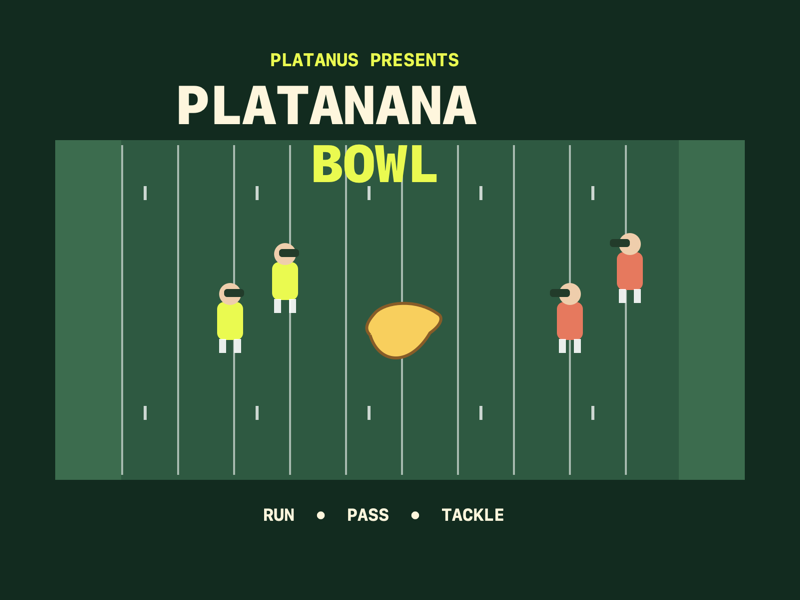
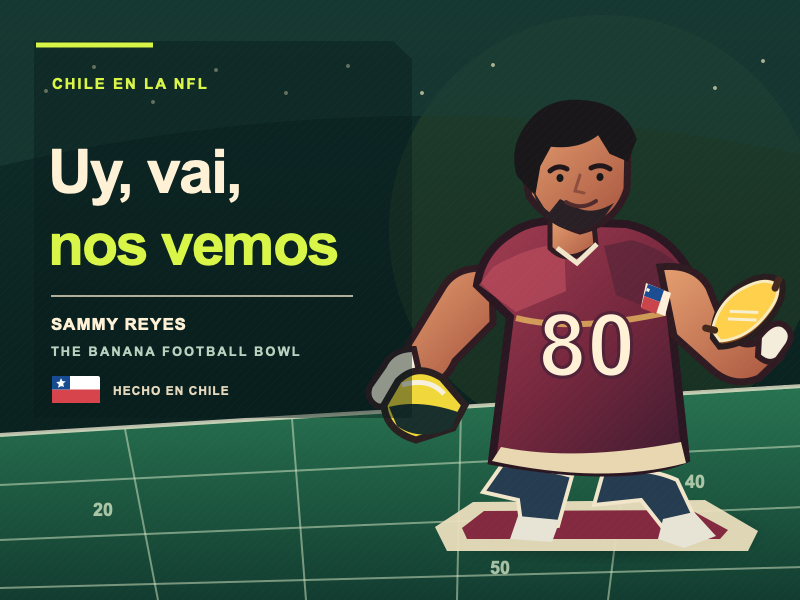
feat(arcade): rename game and draw Sammy Reyes cover

diff --git a/game.js b/game.js
@@ -39,7 +39,7 @@ function create() {
   s.cameras.main.setBounds(0, 0, W, WORLD).setScroll(0, WORLD / 2 - H / 2);
   s.hudArt = s.add.graphics().setScrollFactor(0).setDepth(19);
   drawHudPlate(s.hudArt);
-  s.hudHeader = s.add.text(122, 24, 'PLATANANA', { fontFamily: 'monospace', fontSize: '8px', color: '#e1ff00', fontStyle: 'bold', align: 'center' }).setOrigin(.5).setScrollFactor(0).setDepth(20);
+  s.hudHeader = s.add.text(122, 24, 'UY, VAI, NOS VEMOS', { fontFamily: 'monospace', fontSize: '8px', color: '#e1ff00', fontStyle: 'bold', align: 'center' }).setOrigin(.5).setScrollFactor(0).setDepth(20);
   s.hudLeft = s.add.text(51, 51, 'P1', { fontFamily: 'monospace', fontSize: '9px', color: '#092218', fontStyle: 'bold' }).setOrigin(.5).setScrollFactor(0).setDepth(20);
   s.hudRight = s.add.text(193, 51, 'CPU', { fontFamily: 'monospace', fontSize: '9px', color: '#fff4cf', fontStyle: 'bold' }).setOrigin(.5).setScrollFactor(0).setDepth(20);
   s.hud = s.add.text(122, 52, '', { fontFamily: 'Arial Black, sans-serif', fontSize: '17px', color: '#fff4cf', fontStyle: 'bold', align: 'center' }).setOrigin(.5).setScrollFactor(0).setDepth(20);
@@ -55,9 +55,9 @@ function create() {
   s.titleArt = s.add.graphics().setScrollFactor(0).setDepth(18);
   drawTitlePlate(s.titleArt);
   s.titleTag = s.add.text(142, 147, 'PLATANUS ARCADE  /  SANTIAGO 2026', { fontFamily: 'monospace', fontSize: '12px', color: '#e1ff00', fontStyle: 'bold' }).setOrigin(0, .5).setScrollFactor(0).setDepth(20);
-  s.title = s.add.text(137, 205, 'PLATA', { fontFamily: 'Arial Black, sans-serif', fontSize: '52px', color: '#fff4cf', fontStyle: 'bold', stroke: '#092218', strokeThickness: 6 }).setOrigin(0, .5).setScrollFactor(0).setDepth(20);
-  s.titleAccent = s.add.text(137, 267, 'NANA BOWL', { fontFamily: 'Arial Black, sans-serif', fontSize: '47px', color: '#e1ff00', fontStyle: 'bold', stroke: '#092218', strokeThickness: 6 }).setOrigin(0, .5).setScrollFactor(0).setDepth(20);
-  s.tagline = s.add.text(142, 326, 'RUN IT. AIR IT. TAKE THE BANANA.', { fontFamily: 'monospace', fontSize: '12px', color: '#c1d9c5', fontStyle: 'bold' }).setOrigin(0, .5).setScrollFactor(0).setDepth(20);
+  s.title = s.add.text(137, 205, 'UY, VAI,', { fontFamily: 'Arial Black, sans-serif', fontSize: '48px', color: '#fff4cf', fontStyle: 'bold', stroke: '#092218', strokeThickness: 6 }).setOrigin(0, .5).setScrollFactor(0).setDepth(20);
+  s.titleAccent = s.add.text(137, 267, 'NOS VEMOS', { fontFamily: 'Arial Black, sans-serif', fontSize: '43px', color: '#e1ff00', fontStyle: 'bold', stroke: '#092218', strokeThickness: 6 }).setOrigin(0, .5).setScrollFactor(0).setDepth(20);
+  s.tagline = s.add.text(142, 326, 'A BANANA FOOTBALL SENDOFF.', { fontFamily: 'monospace', fontSize: '12px', color: '#c1d9c5', fontStyle: 'bold' }).setOrigin(0, .5).setScrollFactor(0).setDepth(20);
   s.modeText = s.add.text(142, 379, 'SOLO  ·  YOU VS CPU     /     LOCAL  ·  2 PLAYERS', { fontFamily: 'monospace', fontSize: '11px', color: '#fff4cf', fontStyle: 'bold' }).setOrigin(0, .5).setScrollFactor(0).setDepth(20);
   s.prompt = s.add.text(142, 446, 'PRESS ENTER TO KICK OFF', { fontFamily: 'Arial Black, sans-serif', fontSize: '18px', color: '#e1ff00', fontStyle: 'bold' }).setOrigin(0, .5).setScrollFactor(0).setDepth(20);
   s.titleBanana = makeBanana(s, 572, 295, 2.2).setRotation(-.28).setScrollFactor(0).setDepth(20);
